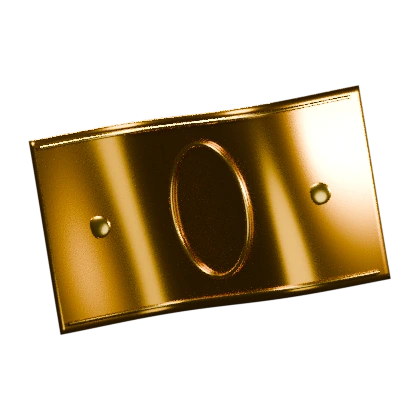
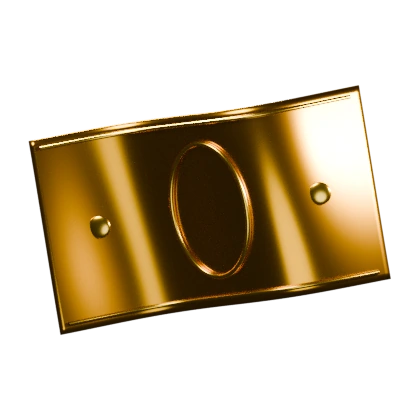
Match reference section offsets, mobile geometry, typography and rendered animation after browser comparison

diff --git a/src/styles/bridge.css b/src/styles/bridge.css
@@ -19,4 +19,12 @@ html{scrollbar-width:none}html::-webkit-scrollbar{display:none}.rendered-scene{b
 @media(max-width:767px){.hero{margin-bottom:12.22vw}.hero .word-window{margin-top:.1em}.press{height:60.03vw;min-height:0;padding:7.5vw 15px}.press h2{font-size:4.7vw}.press-logos{margin-top:7vw;gap:5.5vw 4vw}.press-logos a{font-size:7vw}.testimonials{padding:22vw 6.92vw 12.3vw}.review-grid{grid-template-columns:1fr}.review-column:nth-child(n+2){display:none}.review{min-height:267px!important;padding:24px 15px 16px}.review h3{font-size:16px;margin:22px 0 28px}.review p{font-size:16px}.avatar{width:60px;height:60px;font-size:25px}.review-stars{font-size:23px}.more-love{margin-top:32px}.earn-ticker{height:48.92vw;margin:0 3.91vw}.intro{padding:18.34vw 3.91vw 5vw;min-height:208.03vw}.intro>h2:first-child{font-size:15.65vw}.note-left{width:55.74vw;height:55.74vw;left:22.13vw;top:38.53vw}.note-right{display:none}.intro-copy{padding-top:36vw;font-size:17px;line-height:1.45}.intro-copy p+p{margin-top:30px}.how-heading{font-size:14.86vw;line-height:1.28;margin-top:12vw}.steps{padding:14.67vw 3.91vw 31.3vw}.step{gap:12.22vw;margin-bottom:31.3vw}.step-copy{min-height:79.2vw;display:flex;flex-direction:column;align-items:center;justify-content:center}.step:first-child .step-copy{min-height:98.27vw}.step h3{font-size:12.22vw}.step-label{padding:14px 35px;font-size:15px;margin-bottom:9.5vw}.step p{margin-top:10.3vw;font-size:17px;line-height:1.45}.step-art{height:136.9vw}.step-actions{margin-top:9vw}.coin-ribbon{height:59.63vw;width:100%;margin:0}.gold-title{height:81.17vw;padding-top:22vw}.gold-title h2{font-size:15.65vw}.green-word{inset:32vw 5vw 0;height:45vw}.warp{height:50svh;min-height:0}.warp h2{font-size:17px;max-width:280px;margin-bottom:40px}.counter{font-size:16.3vw}.counter-unit{font-size:7vw}.warp-content{width:88%}.final-cta{padding:24.45vw 3.91vw 12.22vw}.final-cta h2{font-size:21.9vw;line-height:.965;overflow-wrap:normal}.final-cta>p{margin-top:10vw;font-size:17px;max-width:330px}.final-buttons{margin-top:12.22vw;display:block}.final-buttons>a{min-height:68px;border:0;background:var(--pink);color:#000;font-size:16px;gap:15px;border-radius:12px}.final-buttons>a:nth-child(2){display:none}.final-buttons svg{width:24px;height:24px}.footer-first{padding-top:0}.footer-first>p{padding:45px 25px;min-height:180px}.social-grid{grid-template-columns:1fr}.social-grid>a{height:90px;border-left:0;border-bottom:1px solid var(--line)!important}.social-grid>a:last-child{border-bottom:0!important}.footer-wordmark{padding:45px 15px 50px}}
 .mobile-break{display:none}.final-brand{font-size:.9em}.nav-drop,.mobile-menu{font-family:Arial,sans-serif}.grain{filter:contrast(300%) brightness(.6)}
 @media(max-width:767px){.mobile-break{display:block}.final-brand{display:block;font-size:.82em}}
+@media(min-width:768px){.testimonials{padding-bottom:7.15vw}.earn-ticker{height:20.227vw}.intro{padding-bottom:10.94vw}.steps{padding-top:3.51vw;padding-bottom:14.04vw}.step{grid-template-columns:58.55% 39.04%;gap:2.41%}.step-copy{padding-right:0}.step-art{height:45.506vw}.final-cta{margin-top:-3.37vw;min-height:79.316vw;padding-top:12.35vw}.final-cta h2{font-size:12.64vw;line-height:.916}.final-brand{font-size:.84em}.footer-wordmark{font-size:20.9vw;padding-top:7.8vw;padding-bottom:9.8vw}.hero .word-window{height:1em}}
+.grain{background-image:url('../assets/grain.png');background-size:256px 256px;opacity:.8;filter:none}.inline-arrow{display:inline-flex;width:1em;height:1em;vertical-align:middle}.inline-arrow svg{width:100%;height:100%}.review-stars{display:flex;gap:1px}.review-stars svg{width:22px;height:22px}.step-actions .inline-arrow{width:25px;height:25px}.review-bottom .inline-arrow{width:16px;height:16px}
+@media(min-width:768px){.review-column:nth-child(1) .review:first-child,.review-column:nth-child(4) .review:first-child{min-height:332px}.review-column:nth-child(2) .review:first-child{min-height:300px}.review-column:nth-child(3) .review:first-child{min-height:268px}}
+@media(min-width:768px){.testimonials{height:69.674vw}.intro{height:129.0218vw}.how-heading{margin-top:22.2vw}.note-left{top:33%;}.banknote{width:22vw;height:22vw}.note-right{top:8%}}
+h2,h3{font-stretch:110%;font-weight:800}.hero h1,.word-track{font-stretch:100%}.brand,.footer-wordmark{font-stretch:110%}.review h3,.warp h2{font-stretch:100%}.final-brand{font-stretch:100%}
+.warp-scene{z-index:4}
+@media(min-width:768px){.gold-title{padding-top:11.4vw}.green-word{inset:16.5vw 27vw 0;height:26vw}.footer-wordmark{font-size:17.3vw;padding-top:9.6vw;padding-bottom:11.6vw}.bridge-footer{margin-top:0}}
+@media(max-width:767px){.final-brand{font-size:.8em}}
 @media(prefers-reduced-motion:reduce){html{scroll-behavior:auto}.ticker-track{animation:none}*,*::before,*::after{transition:none!important}}

diff --git a/src/scripts/bridge-baked.ts b/src/scripts/bridge-baked.ts
@@ -2,19 +2,20 @@
  * This matches the reference's pre-rendered media approach and works without WebGL.
  */
 const base=import.meta.env.BASE_URL+'visuals/';
+const version='?v=original-3d-20261106b';
 function load(src:string){return new Promise<HTMLImageElement>((resolve,reject)=>{const i=new Image();i.onload=()=>resolve(i);i.onerror=reject;i.src=src;});}
 export async function mountBakedScenes(reduced:boolean){
  const staticScenes:Record<string,string>={note:'banknote.webp',phone:'phone-welcome.webp','phone-stats':'phone-stats.webp',card:'card.webp',green:'green.webp'};
- document.querySelectorAll<HTMLElement>('[data-scene]').forEach(el=>{const src=staticScenes[el.dataset.scene!];if(!src)return;const img=document.createElement('img');img.src=base+src;img.alt='';img.decoding='async';img.loading=el.dataset.scene==='note'?'eager':'lazy';img.className='rendered-scene';el.append(img);});
- const atlas=await load(base+'coins.webp');
+ document.querySelectorAll<HTMLElement>('[data-scene]').forEach(el=>{const src=staticScenes[el.dataset.scene!];if(!src)return;const img=document.createElement('img');img.src=base+src+version;img.alt='';img.decoding='async';img.loading=el.dataset.scene==='note'?'eager':'lazy';img.className='rendered-scene';el.append(img);});
+ const atlas=await load(base+'coins.webp'+version);
  const slots=[...document.querySelectorAll<HTMLElement>('[data-scene="coin"],[data-scene="ribbon"],[data-scene="warp"]')].map((el,index)=>{const canvas=document.createElement('canvas');canvas.className='baked-canvas';el.append(canvas);return {el,canvas,ctx:canvas.getContext('2d')!,index,visible:false};});
  const observer=new IntersectionObserver(entries=>entries.forEach(e=>{const s=slots.find(s=>s.el===e.target);if(s)s.visible=e.isIntersecting;}),{rootMargin:'100px'});slots.forEach(s=>observer.observe(s.el));
- function drawCoin(ctx:CanvasRenderingContext2D,x:number,y:number,size:number,frame:number,rotation=0){const f=((Math.floor(frame)%32)+32)%32;ctx.save();ctx.translate(x,y);ctx.rotate(rotation);ctx.drawImage(atlas,(f%8)*256,Math.floor(f/8)*256,256,256,-size/2,-size/2,size,size);ctx.restore();}
+ function drawCoin(ctx:CanvasRenderingContext2D,x:number,y:number,size:number,frame:number,rotation=0){const f=((Math.floor(frame)%32)+32)%32;const tile=atlas.width/8;ctx.save();ctx.translate(x,y);ctx.rotate(rotation);ctx.drawImage(atlas,(f%8)*tile,Math.floor(f/8)*tile,tile,tile,-size/2,-size/2,size,size);ctx.restore();}
  let last=0;const started=performance.now();
  function render(now:number){requestAnimationFrame(render);if(document.hidden||now-last<1000/(innerWidth<768?24:30))return;last=now;const t=reduced?0:(now-started)/1000;
  for(const s of slots){if(!s.visible)continue;const r=s.el.getBoundingClientRect(),w=r.width,h=r.height;if(!w||!h)continue;const dpr=Math.min(devicePixelRatio,1.75);if(s.canvas.width!==Math.round(w*dpr)||s.canvas.height!==Math.round(h*dpr)){s.canvas.width=Math.round(w*dpr);s.canvas.height=Math.round(h*dpr);}s.ctx.setTransform(dpr,0,0,dpr,0,0);s.ctx.clearRect(0,0,w,h);
  if(s.el.dataset.scene==='coin')drawCoin(s.ctx,w/2,h/2+Math.sin(t+s.index)*h*.015,w,t*6+s.index*11,s.index===0?-.15:.12);
- if(s.el.dataset.scene==='ribbon'){const size=h*1.08;for(let i=0;i<5;i++)drawCoin(s.ctx,w/2+(i-2)*w*.313,h/2,size,t*6+i*3);}
- if(s.el.dataset.scene==='warp'){for(let i=0;i<18;i++){const phase=(t*.062+i/18)%1;const angle=i*2.39996+t*.025;const radius=.12+phase*.75;const size=(.03+phase*.23)*w;drawCoin(s.ctx,w/2+Math.cos(angle)*radius*w,h/2+Math.sin(angle)*radius*h,size,t*6+i*4,Math.sin(i)*.25);}}
+ if(s.el.dataset.scene==='ribbon'){const size=h*1.08;for(let i=0;i<4;i++)drawCoin(s.ctx,w/2+(i-1.5)*w*.313,h/2,size,t*6+i*3);}
+ if(s.el.dataset.scene==='warp'){for(let i=0;i<18;i++){const phase=(t*.062+i/18)%1;const angle=i*2.39996+t*.025;const radius=.08+phase*.45;const size=(.03+phase*.23)*w;drawCoin(s.ctx,w/2+Math.cos(angle)*radius*w,h/2+Math.sin(angle)*radius*h,size,t*6+i*4,Math.sin(i)*.25);}}
  }}requestAnimationFrame(render);
 }

diff --git a/src/scripts/bridge.ts b/src/scripts/bridge.ts
@@ -18,6 +18,8 @@ mobileMenu?.querySelectorAll('a').forEach(a=>a.addEventListener('click',closeMob
 document.addEventListener('keydown',e=>{if(e.key==='Escape')closeMobile();});
 // Explicit vector icons avoid missing glyphs on platforms with limited system fonts.
 document.querySelectorAll<HTMLElement>('.store-icon,.pink-app span,.back-top').forEach(el=>{el.innerHTML='<svg width="24" height="24" viewBox="0 0 24 24" fill="none" aria-hidden="true"><path d="M5 19 19 5M5 5h14v14" stroke="currentColor" stroke-width="2"/></svg>';});
+document.querySelectorAll('a').forEach(a=>{[...a.childNodes].filter(n=>n.nodeType===Node.TEXT_NODE&&n.textContent?.includes('↗')).forEach(n=>{const pieces=n.textContent!.split('↗');const fragment=document.createDocumentFragment();pieces.forEach((p,i)=>{fragment.append(document.createTextNode(p));if(i<pieces.length-1){const span=document.createElement('span');span.className='inline-arrow';span.innerHTML='<svg viewBox="0 0 24 24" aria-hidden="true"><path d="M5 19 19 5M5 5h14v14" fill="none" stroke="currentColor" stroke-width="2"/></svg>';fragment.append(span);}});n.replaceWith(fragment);});});
+document.querySelectorAll('.review-stars').forEach(el=>{el.innerHTML=Array.from({length:5},()=>'<svg viewBox="0 0 24 24" aria-hidden="true"><path d="m12 1 3.3 7 7.7 1-5.6 5.5 1.4 7.5-6.8-3.7L5.2 22l1.4-7.5L1 9l7.7-1Z" fill="currentColor"/></svg>').join('');});
 if(!reduced){
   const track=document.querySelector<HTMLElement>('.word-track');
   if(track){let index=0;const count=track.children.length;const cycle=()=>{index++;gsap.to(track,{y:()=>-index*(track.firstElementChild as HTMLElement).getBoundingClientRect().height,duration:.65,ease:'power3.inOut',onComplete:()=>{if(index===count-1){index=0;gsap.set(track,{y:0});}}});};setInterval(cycle,2700);addEventListener('resize',()=>gsap.set(track,{y:-index*(track.firstElementChild as HTMLElement).getBoundingClientRect().height}));}

diff --git a/scripts/render/scenes.py b/scripts/render/scenes.py
@@ -50,7 +50,7 @@ def area(name,pos,power,size,color=(1,1,1),size_y=None):
  o.rotation_euler=(Vector((0,0,0))-o.location).to_track_quat('-Z','Y').to_euler()
 def setup(width,height,scale):
  bpy.ops.object.select_all(action='SELECT');bpy.ops.object.delete(use_global=False)
- s=bpy.context.scene;s.render.engine='CYCLES';s.cycles.device='CPU';s.cycles.samples=96;s.cycles.use_denoising=False;s.render.resolution_x=width;s.render.resolution_y=height;s.render.resolution_percentage=100;s.render.image_settings.file_format='PNG';s.render.image_settings.color_mode='RGBA';s.render.film_transparent=True;s.world.color=(.1,.1,.1);s.view_settings.view_transform='AgX';s.view_settings.look='AgX - Medium High Contrast';s.view_settings.exposure=-.35
+ s=bpy.context.scene;s.render.engine='CYCLES';s.cycles.device='CPU';s.cycles.samples=384;s.cycles.use_denoising=False;s.render.resolution_x=width;s.render.resolution_y=height;s.render.resolution_percentage=100;s.render.image_settings.file_format='PNG';s.render.image_settings.color_mode='RGBA';s.render.film_transparent=True;s.world.color=(.1,.1,.1);s.view_settings.view_transform='AgX';s.view_settings.look='AgX - Medium High Contrast';s.view_settings.exposure=-.35
  area('Large white softbox',(-3,-4,4),400,3,(1,.88,.55));area('Right warm strip',(4,-2,1),700,3,(1,.83,.49),.55);area('Upper edge',(-1,2,4),1400,3,(1,.95,.76),1);area('Front fill',(0,-5,-2),55,3)
  bpy.ops.object.camera_add(location=(0,-10,0));c=bpy.context.object;c.rotation_euler=(Vector((0,0,0))-c.location).to_track_quat('-Z','Y').to_euler();c.data.type='ORTHO';c.data.ortho_scale=scale;s.camera=c;return s
 def render(name):
@@ -104,7 +104,7 @@ def note():
 
 mode=sys.argv[sys.argv.index('--')+1] if '--' in sys.argv else 'all'
 if mode in ['all','coin']:
- s=setup(256,256,2.55);c=coin();s.cycles.samples=64
+ s=setup(384,384,2.55);s.world.use_nodes=True;s.world.node_tree.nodes.get('Background').inputs['Color'].default_value=(.45,.22,.01,1);s.world.node_tree.nodes.get('Background').inputs['Strength'].default_value=1.2;c=coin();s.cycles.samples=64
  for i in range(32):
   c.rotation_euler=(.1,.10,math.sin(i/32*2*math.pi)*.72);s.render.filepath=os.path.join(TMP,'coin-%02d.png'%i);bpy.ops.render.render(write_still=True)
 if mode in ['all','static']:

diff --git a/scripts/render/pack.py b/scripts/render/pack.py
@@ -2,8 +2,8 @@
 from pathlib import Path
 from PIL import Image
 ROOT=Path(__file__).resolve().parents[2];out=ROOT/'public/visuals'
-atlas=Image.new('RGBA',(2048,1024))
-for i in range(32):atlas.paste(Image.open(ROOT/('.render/coin-%02d.png'%i)),(i%8*256,i//8*256))
+atlas=Image.new('RGBA',(3072,1536))
+for i in range(32):atlas.paste(Image.open(ROOT/('.render/coin-%02d.png'%i)),(i%8*384,i//8*384))
 atlas.save(out/'coins.webp',quality=93,method=6)
 for p in out.glob('*.png'):
  im=Image.open(p)

diff --git a/docs/REFERENCE-QA.md b/docs/REFERENCE-QA.md
@@ -24,4 +24,13 @@ blender -b -t 6 -P scripts/render/scenes.py
 python scripts/render/pack.py
 ```
 
-Reference was inspected in the browser at 1363 × 936 and within a 390 × 844 iframe. Further validation notes are appended after publication.
+## Validation
+
+- Reference inspected at 1363 × 936. Each desktop section was compared with the implementation at that viewport; the hero, wordmark panel, cards, ticker, introduction, steps, coin ribbon, gold text, counter, CTA and footer were opened and inspected.
+- Both pages were opened side by side in 390 × 844 iframes. This exposed the reference's single mobile coin, hamburger, full-width pink CTA, single card column, centered banknote and stacked steps. These differences were corrected. A later attempt to reload the comparison harness was rejected by the browser URL policy; the final mobile revision could not be fully rechecked in that harness. No attempt was made to bypass the policy.
+- Desktop section positions after adjustment: white panel 983.83 px, cards 1415.34 px, ticker 2365.00 px, intro 2640.69 px, steps 4399.25 px, coin ribbon 6594.55 px, gold title 7027.42 px, counter 7609.42 px and CTA 8499.50 px. Main section offsets differ from the observed reference by less than 0.5 px at this width; content and font outlines remain approximations.
+- Gold coins use a 32-frame 384 px atlas. Static scenes use up to 384 Cycles samples. Off-screen canvas scenes pause their drawing; reduced-motion removes animated movement.
+- `npm run check`: zero errors, warnings or hints. Production build with `BASE_PATH=/frenchug/` succeeds. All home-page internal links, anchors and linked assets resolve in the build; the temporary comparison harness is excluded.
+- The first implementation commit `6bf2a6b` was deployed by GitHub Actions run `42280464328`, conclusion `success`. Final deployment is verified separately after the visual adjustment commit.
+
+This is an independently implemented visual reconstruction. Licensed typefaces, third-party brand artwork, testimonials and source models from the reference are not copied. Archivo/DM Sans/Allura and the original models produce visible differences from the reference.
